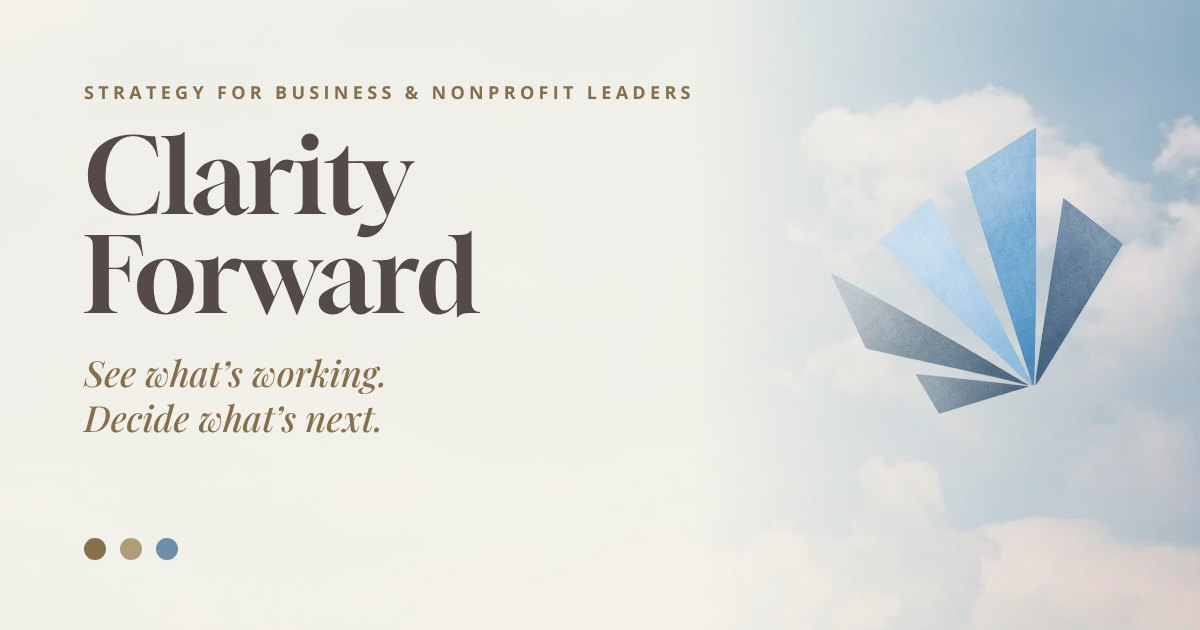
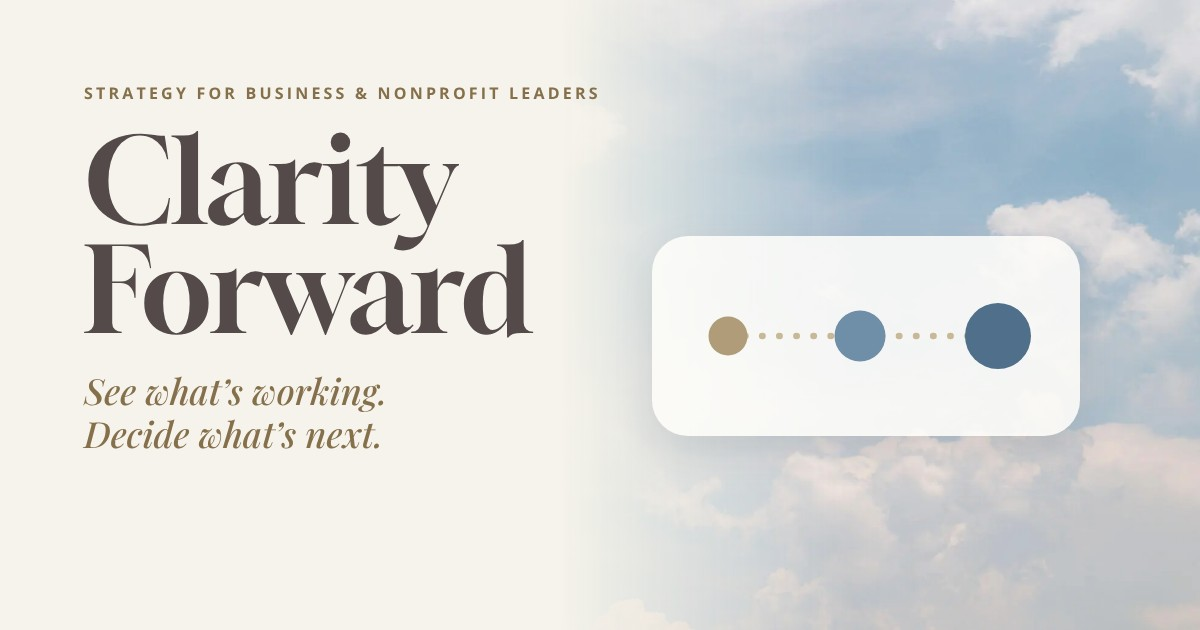
Switch Clarity Forward to the connect-the-dots family mark
New favicon, app icon, share image, header mark and hero mark.

Claude-Session: https://claude.ai/code/session_015FhWw6TJwaLWsrhhNxDfTS

diff --git a/index.html b/index.html
@@ -49,7 +49,7 @@ a{color:inherit}
 
 .nav{position:sticky;top:env(safe-area-inset-top,0px);z-index:5;background:rgba(245,243,235,.92);backdrop-filter:blur(8px);border-bottom:1px solid var(--line)}
 .nav .wrap{display:flex;align-items:center;justify-content:space-between;gap:16px;padding-block:12px}
-.brand{font-family:var(--display);font-size:22px;text-decoration:none;letter-spacing:.02em;color:var(--ink);white-space:nowrap}
+.brand{font-family:var(--display);font-size:22px;text-decoration:none;letter-spacing:.02em;color:var(--ink);white-space:nowrap;display:inline-flex;align-items:center;gap:10px}.brand img{width:48px;height:16px}
 .nav ul{display:flex;gap:22px;list-style:none;margin:0;padding:0;font-size:13px;font-weight:600}
 .nav ul a{text-decoration:none;color:var(--body)} .nav ul a:hover{color:var(--ink)}
 @media (max-width:720px){.nav ul li.hide-sm{display:none}.nav ul{gap:14px;font-size:12px}.brand{font-size:20px}}
@@ -70,10 +70,10 @@ a{color:inherit}
 .glass{background:rgba(251,249,244,.78);backdrop-filter:blur(10px);-webkit-backdrop-filter:blur(10px);border:1px solid rgba(255,255,255,.7);border-radius:30px;padding:clamp(28px,4vw,52px);display:grid;gap:20px;box-shadow:0 24px 60px rgba(79,111,138,.18);min-width:0}
 .hero h1{font-size:clamp(2.5rem,5.2vw,4.2rem);max-width:13ch}
 .pill{display:inline-flex;align-items:center;font-size:12px;font-weight:700;letter-spacing:.06em;color:var(--skydeep);background:var(--skywash);border-radius:999px;padding:9px 14px}
-.burst{width:min(100%,340px);justify-self:center;filter:drop-shadow(0 20px 40px rgba(79,111,138,.25));animation:rise 1.4s cubic-bezier(.2,.8,.2,1) both}
+.burst{width:min(100%,320px);box-sizing:border-box;justify-self:center;padding:34px 30px;border-radius:32px;background:rgba(255,254,250,.82);backdrop-filter:blur(6px);box-shadow:0 20px 40px rgba(79,111,138,.18);animation:rise 1.4s cubic-bezier(.2,.8,.2,1) both}.burst img{display:block;width:100%;height:auto}
 @keyframes rise{from{transform:translateY(40px);opacity:0}to{transform:none;opacity:1}}
 @media (prefers-reduced-motion:reduce){.burst{animation:none}}
-@media (max-width:860px){.hero .wrap{grid-template-columns:minmax(0,1fr)}.burst{order:-1;width:130px;justify-self:start;margin-bottom:-8px}}
+@media (max-width:860px){.hero .wrap{grid-template-columns:minmax(0,1fr)}.burst{display:none}}
 
 section.block{padding-block:72px}
 .two{display:grid;grid-template-columns:minmax(0,1fr) minmax(0,1fr);gap:clamp(24px,5vw,72px);align-items:center}
@@ -203,7 +203,7 @@ footer .wrap{padding-block:30px;display:grid;gap:18px}
 
 <header class="nav">
   <div class="wrap">
-    <a class="brand" href="#top">Clarity Forward</a>
+    <a class="brand" href="#top"><img src="cf-mark.svg" alt="" width="48" height="16">Clarity Forward</a>
     <nav aria-label="Main"><ul>
       <li class="hide-sm"><a href="#method">How I Work</a></li>
       <li><a href="#services">Services</a></li>
@@ -224,7 +224,7 @@ footer .wrap{padding-block:30px;display:grid;gap:18px}
         <div class="btns"><a class="btn solid" href="https://snapshot.theclarityforward.com/?mode=full&amp;ref=website&amp;event=website" target="_blank" rel="noopener">Take the Clarity Snapshot</a><span class="pill">Complimentary · About 3 minutes</span></div>
         <p class="textlink">Prefer to talk it through? <a href="https://cal.com/katekness/clarity-call" target="_blank" rel="noopener">Book a 20-minute intro call</a></p>
       </div>
-      <img class="burst" src="img/icon.webp" alt="">
+      <div class="burst" aria-hidden="true"><img src="cf-mark.svg" alt="" width="260" height="87"></div>
     </div>
   </section>
 

diff --git a/404.html b/404.html
@@ -28,7 +28,7 @@ body{background:var(--paper);color:var(--ink);font-family:var(--sans);font-size:
 a{color:var(--gold)}
 .nav{position:sticky;top:0;background:rgba(245,243,235,.92);backdrop-filter:blur(8px);border-bottom:1px solid var(--line);z-index:5}
 .nav .in{max-width:820px;margin:0 auto;padding:14px 20px;display:flex;justify-content:space-between;align-items:center;gap:16px}
-.brand{font-family:var(--display);font-size:1.35rem;color:var(--ink);text-decoration:none}
+.brand{font-family:var(--display);font-size:1.35rem;color:var(--ink);text-decoration:none;display:inline-flex;align-items:center;gap:10px}
 .back{font-size:12px;font-weight:700;letter-spacing:.14em;text-transform:uppercase;color:var(--ink);text-decoration:none;border:1.5px solid var(--ink);border-radius:44px;padding:9px 16px}
 main{max-width:820px;margin:0 auto;padding:48px 20px 72px}
 h1{font-family:var(--display);font-weight:400;font-size:clamp(2.2rem,5vw,3.2rem);line-height:1.05;margin:0 0 8px}
@@ -44,7 +44,7 @@ footer a{color:var(--ink);font-weight:600;text-decoration:none}
 <meta name="robots" content="noindex">
 </head>
 <body>
-<header class="nav"><div class="in"><a class="brand" href="/">Clarity Forward</a></div></header>
+<header class="nav"><div class="in"><a class="brand" href="/"><img src="/cf-mark.svg" alt="" width="45" height="15">Clarity Forward</a></div></header>
 <main style="text-align:center;padding-top:90px"><p class="date">404</p><h1>This page wandered off.</h1><p>It may have moved when the site got its refresh.</p><p style="margin-top:22px"><a class="back" href="/">Take me home</a></p></main>
 </body>
 </html>

diff --git a/policies/index.html b/policies/index.html
@@ -28,7 +28,7 @@ body{background:var(--paper);color:var(--ink);font-family:var(--sans);font-size:
 a{color:var(--gold)}
 .nav{position:sticky;top:0;background:rgba(245,243,235,.92);backdrop-filter:blur(8px);border-bottom:1px solid var(--line);z-index:5}
 .nav .in{max-width:820px;margin:0 auto;padding:14px 20px;display:flex;justify-content:space-between;align-items:center;gap:16px}
-.brand{font-family:var(--display);font-size:1.35rem;color:var(--ink);text-decoration:none}
+.brand{font-family:var(--display);font-size:1.35rem;color:var(--ink);text-decoration:none;display:inline-flex;align-items:center;gap:10px}
 .back{font-size:12px;font-weight:700;letter-spacing:.14em;text-transform:uppercase;color:var(--ink);text-decoration:none;border:1.5px solid var(--ink);border-radius:44px;padding:9px 16px}
 main{max-width:820px;margin:0 auto;padding:48px 20px 72px}
 h1{font-family:var(--display);font-weight:400;font-size:clamp(2.2rem,5vw,3.2rem);line-height:1.05;margin:0 0 8px}
@@ -43,7 +43,7 @@ footer a{color:var(--ink);font-weight:600;text-decoration:none}
 </style>
 </head>
 <body>
-<header class="nav"><div class="in"><a class="brand" href="../">Clarity Forward</a><a class="back" href="../">Back home</a></div></header>
+<header class="nav"><div class="in"><a class="brand" href="../"><img src="../cf-mark.svg" alt="" width="45" height="15">Clarity Forward</a><a class="back" href="../">Back home</a></div></header>
 <main>
 <h1>Policy &amp; Terms</h1>
 <p class="date">Last updated: October 28, 2026</p>
